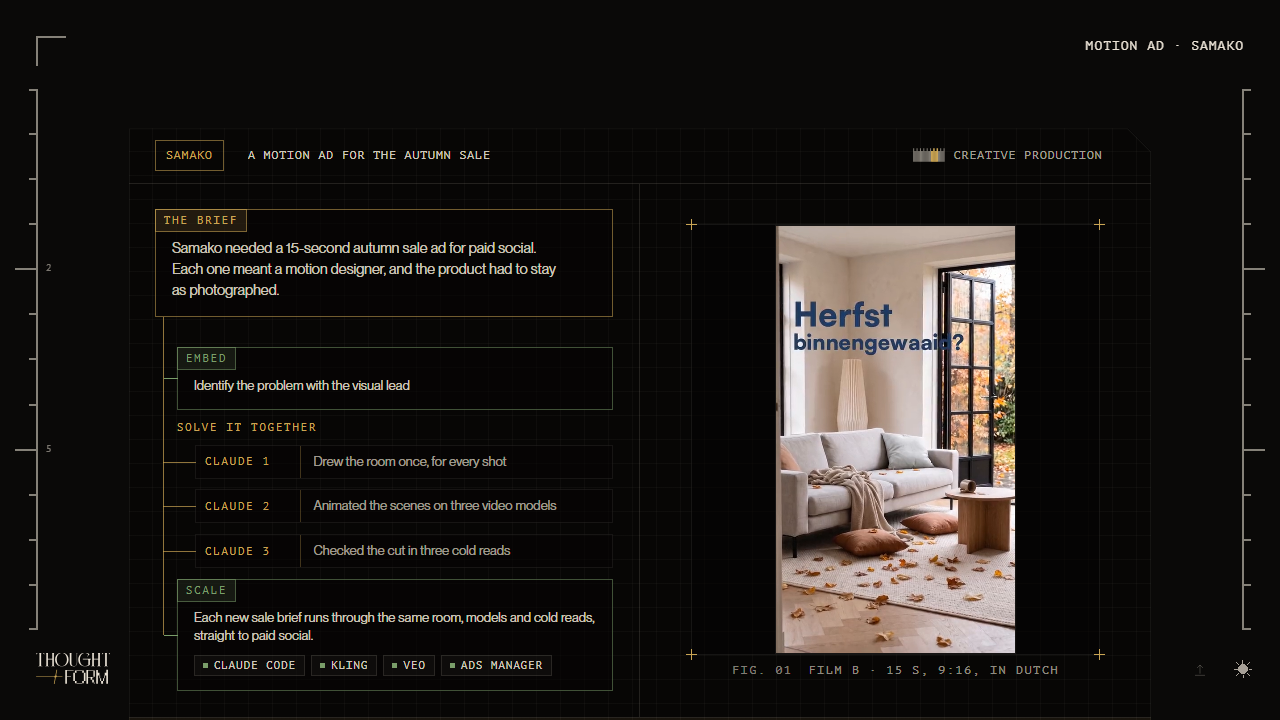
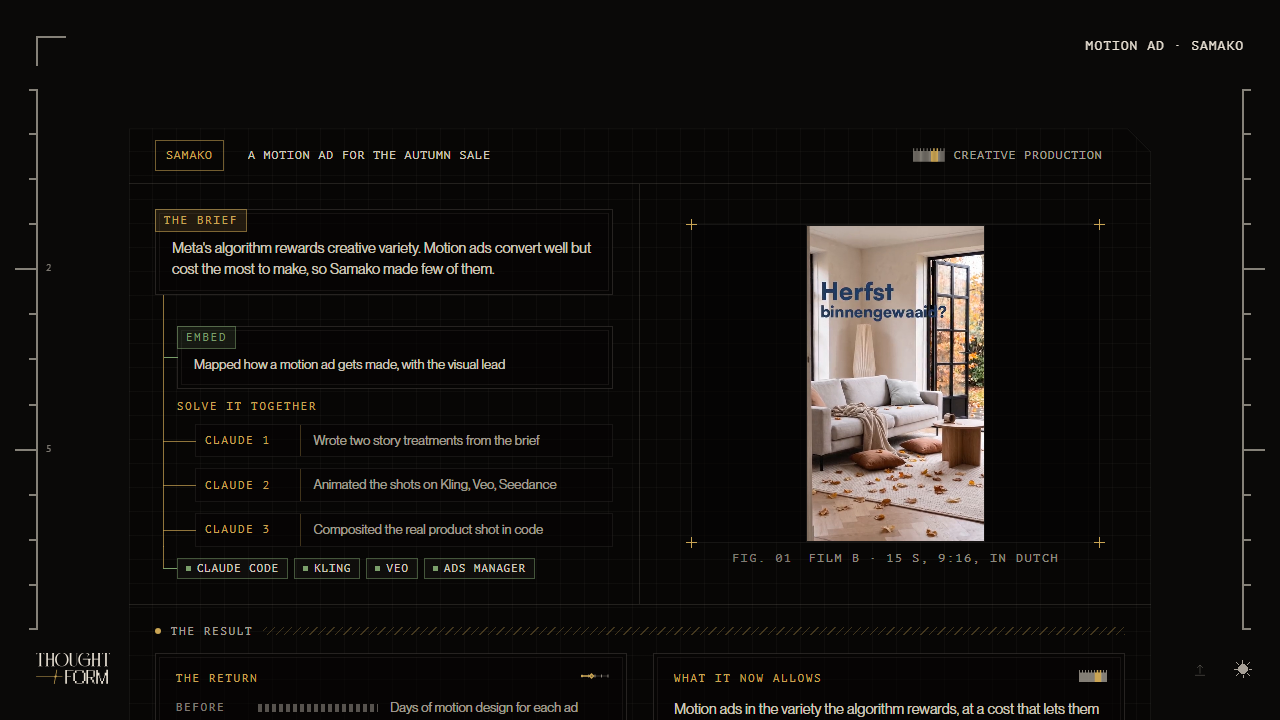
feat(xb-proposal): the flow and the steps speak the Arc, Navigate · Encode · Build
Owner, 2026-10-12 (via the network thread): "let's also use Navigate,
Encode, Build … that way, it's harmonized". The steps' head reads
NAVIGATE, ENCODE, BUILD., its lines "Learn with Claude in your own
work.", "Write down how it works.", "Hand it to your own agents.", each
sentence fitted; the flow's tabs read Navigate with your team, Encode
your context, Build on Claude Enterprise. The step ids stay as keys.

diff --git a/components/xb-proposal/embed/EmbedStack.tsx b/components/xb-proposal/embed/EmbedStack.tsx
@@ -66,9 +66,9 @@ const GREEN = "var(--es-green)";
 const DAWN = "var(--xb-text)";
 
 const HEAD: MastheadCopy = {
-  lines: ["Embed, encode,", "run."],
+  lines: ["Navigate, encode,", "build."],
   brief:
-    "Thoughtform embeds in your team, encodes how it works into a layer your team owns, and your people run their own agents on it.",
+    "Your team learns Claude on its own work with Thoughtform, writes down how it works into a layer it owns, and hands that to its own agents.",
   survey: {
     title: "XB / STEPS · 02",
     brief: "XB / BRIEF · 02",
@@ -80,19 +80,19 @@ const HEAD: MastheadCopy = {
 
 type StepId = (typeof PLUG_STEPS)[number]["id"];
 const LINE: Record<StepId, string> = {
-  embed: "Embed in your team.",
-  encode: "Encode how it works.",
-  run: "Run your own agents.",
+  embed: "Learn with Claude in your own work.",
+  encode: "Write down how it works.",
+  run: "Hand it to your own agents.",
 };
 /* One sentence under each step, open under the step in view (owner,
    2026-10-12: "one sentence of explanation … revealed and then collapse
    open when you scroll through it"). Reduced motion lists all three open. */
 const BODY: Record<StepId, string> = {
   embed:
-    "Thoughtform works inside your four creative workstreams, on real briefs, in the tools your team already uses.",
+    "Thoughtform works inside your four creative workstreams while the team uses Claude on real briefs.",
   encode:
     "How each team works is written into a layer an agent can read: the context, the skills and the evals.",
-  run: "Each person runs their own agents on that layer, and the team reviews what comes back.",
+  run: "Each person hands the work to their own agents on that layer, and the team reviews what comes back.",
 };
 
 /* ── geometry helpers ──────────────────────────────────────────────────── */

diff --git a/components/xb-proposal/plugSteps.ts b/components/xb-proposal/plugSteps.ts
@@ -1,4 +1,7 @@
-/* The three steps, one record for the two drawings that name them (owner,
+/* The three steps, one record for the two drawings that name them; named
+   for the Arc since 2026-10-12, Navigate · Encode · Build (owner: "let's
+   also use Navigate, Encode, Build … that way, it's harmonized"; the ids
+   stay as keys) (owner,
    2026-10-12: "your team, one layer, your stack, connect to embed, encode,
    and run"). The plug flow keys its three regions with them and links each
    to its step; the stack below walks them one at a time. Same names, same
@@ -27,11 +30,11 @@ export const PLUG_STEPS: readonly PlugStep[] = [
   {
     n: "01",
     id: "embed",
-    step: "Embed",
+    step: "Navigate",
     key: "Your team",
     tone: "green",
     line: "Inside your four workstreams",
-    flow: ["Embed in", "your team"],
+    flow: ["Navigate with", "your team"],
     span: [96, 448],
   },
   {
@@ -47,11 +50,11 @@ export const PLUG_STEPS: readonly PlugStep[] = [
   {
     n: "03",
     id: "run",
-    step: "Run",
+    step: "Build",
     key: "Your agents",
     tone: "dawn",
     line: "In the tools you already use",
-    flow: ["Plug into", "Claude Enterprise"],
+    flow: ["Build on", "Claude Enterprise"],
     span: [770, 1200],
   },
 ];

diff --git a/components/arcs/ArcHandoff.tsx b/components/arcs/ArcHandoff.tsx
@@ -34,7 +34,7 @@ interface ArcHandoffProps {
  */
 export function ArcHandoff({ section, index, motion = "reveal" }: ArcHandoffProps) {
   const { steps, time, figure, run, written, opened } = section;
-  /* Embed, encode, run, ported whole from /test/proposition-v2 (owner,
+  /* Navigate, encode, build (embed, encode, run until 12 October), ported whole from /test/proposition-v2 (owner,
      2026-10-12): the section is that block, not these plates. */
   if (section.port === "steps") return <ArcStepsPort id={section.id} motion={motion} />;
   /* The two lab figures of 2026-10-11 are opt-in fields production never

diff --git a/lib/arcs/types.ts b/lib/arcs/types.ts
@@ -1546,7 +1546,7 @@ export type ArcSection = ArcSectionBase &
         opened?: ArcHandoffOpened;
         /**
          * The whole section as a block ported from /test/proposition-v2
-         * (owner, 2026-10-12): `steps` is embed, encode, run, the head and
+         * (owner, 2026-10-12): `steps` is navigate, encode, build, the head and
          * the steps held while the plates close into one stack. The steps,
          * the run and every figure above are not drawn. Opt-in; absent, the
          * section is byte-identical.

diff --git a/lib/arcs/content/x-bionic-proposal.ts b/lib/arcs/content/x-bionic-proposal.ts
@@ -198,7 +198,7 @@ export const X_BIONIC_PROPOSAL_ARC: ArcDef = {
       id: "adoption",
       kind: "handoff",
       menuLabel: "The approach",
-      // Embed, encode, run, from /test/proposition-v2 (owner, 2026-10-12).
+      // Navigate, encode, build, from /test/proposition-v2 (owner, 2026-10-12).
       // The head, the steps and the run below stay in the record and are not
       // drawn while this is set.
       port: "steps",
